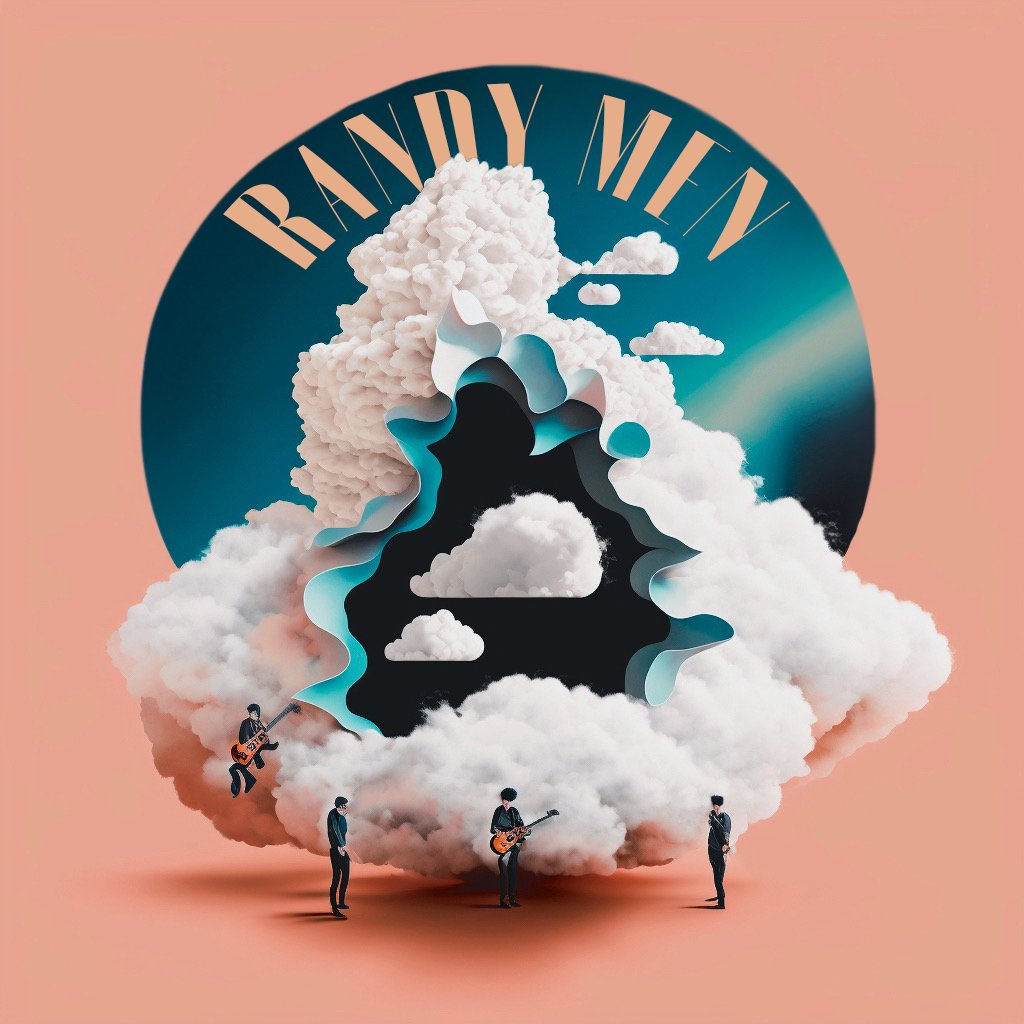
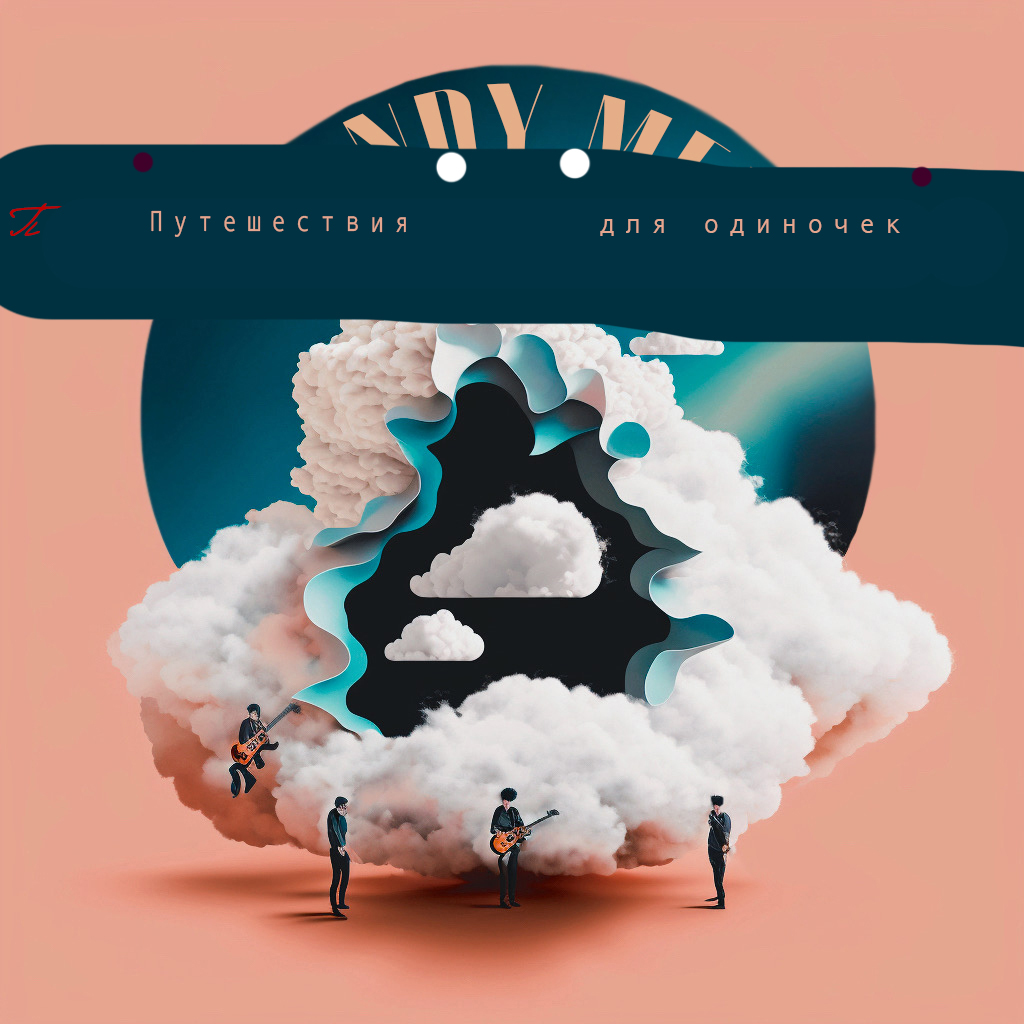
Добавлена смена темы и напись сверху

Changed region(s): [[0.0, 0.125, 1.0, 0.3438]]

diff --git a/main.py b/main.py
@@ -11,6 +11,9 @@ app = ThemedTk(theme="radiance")
 app.title("Путешествия")
 app.geometry("800x600")
 
+# Переменная для отслеживания текущей темы
+current_theme = "radiance"
+
 # База данных для хранения пользователей (просто для примера)
 users = {'user1': 'password1', 'user2': 'password2'}
 
@@ -132,10 +135,12 @@ def get_safety_recommendations():
     country_dropdown = ttk.Combobox(safety_window, textvariable=country_var, values=countries)
     country_dropdown.pack()
 
+    safety_text = tk.Text(safety_window, wrap=tk.WORD)
+    safety_text.pack()
+
     def show_recommendations():
         selected_country = country_var.get()
-        recommendations = "Рекомендации для " + selected_country + ":\n"
-        # Здесь можно добавить рекомендации для каждой страны
+        recommendations = safety_recommendations.get(selected_country, "Рекомендации отсутствуют")
         safety_text.config(state="normal")
         safety_text.delete("1.0", "end")
         safety_text.insert("end", recommendations)
@@ -144,12 +149,19 @@ def get_safety_recommendations():
     show_button = ttk.Button(safety_window, text="Получить рекомендации", command=show_recommendations)
     show_button.pack()
 
-    safety_text = tk.Text(safety_window, state="disabled", wrap=tk.WORD)
-    safety_text.pack()
-
 
 def open_virtual_tours():
     webbrowser.open("https://www.airpano.ru/list-all-virtual-tours.php")
+
+
+def toggle_theme():
+    global current_theme
+    if current_theme == "radiance":
+        app.set_theme("black")
+        current_theme = "black"
+    else:
+        app.set_theme("radiance")
+        current_theme = "radiance"
 
 
 # Добавляем изображение для дизайна
@@ -192,6 +204,10 @@ tab_control.add(virtual_tours_tab, text="ВИРТУАЛЬНЫЕ ТУРЫ")
 
 virtual_tours_button = ttk.Button(virtual_tours_tab, text="Открыть виртуальные туры", command=open_virtual_tours)
 virtual_tours_button.pack()
+
+# Виджет-ползунок для переключения темы
+theme_toggle_button = ttk.Button(app, text="Сменить тему", command=toggle_theme)
+theme_toggle_button.pack(side="top")
 
 tab_control.pack(expand=1, fill="both")
 
